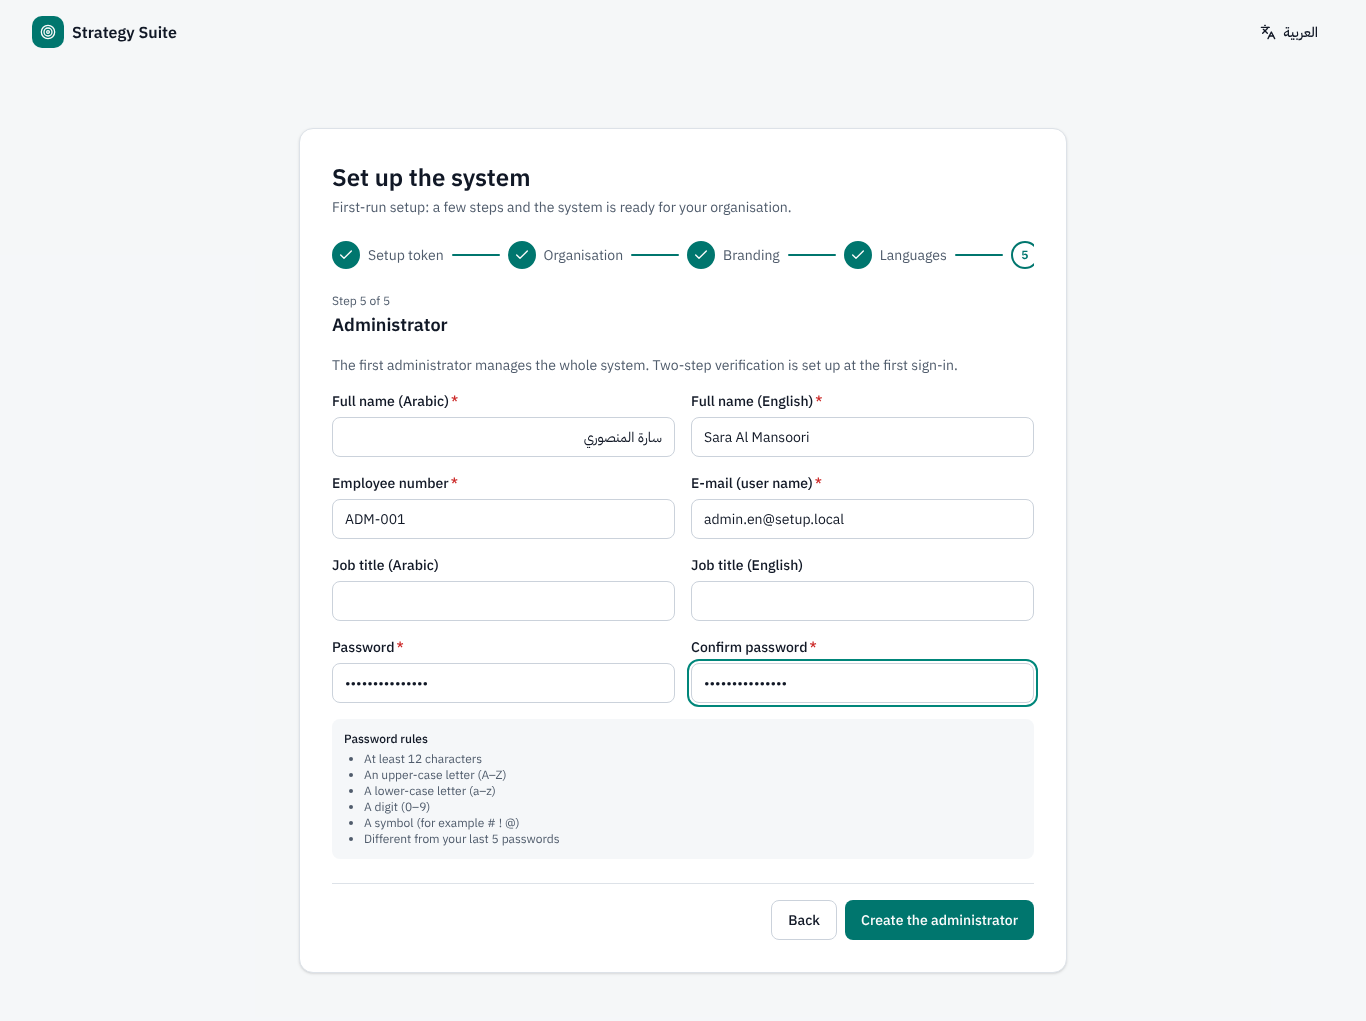
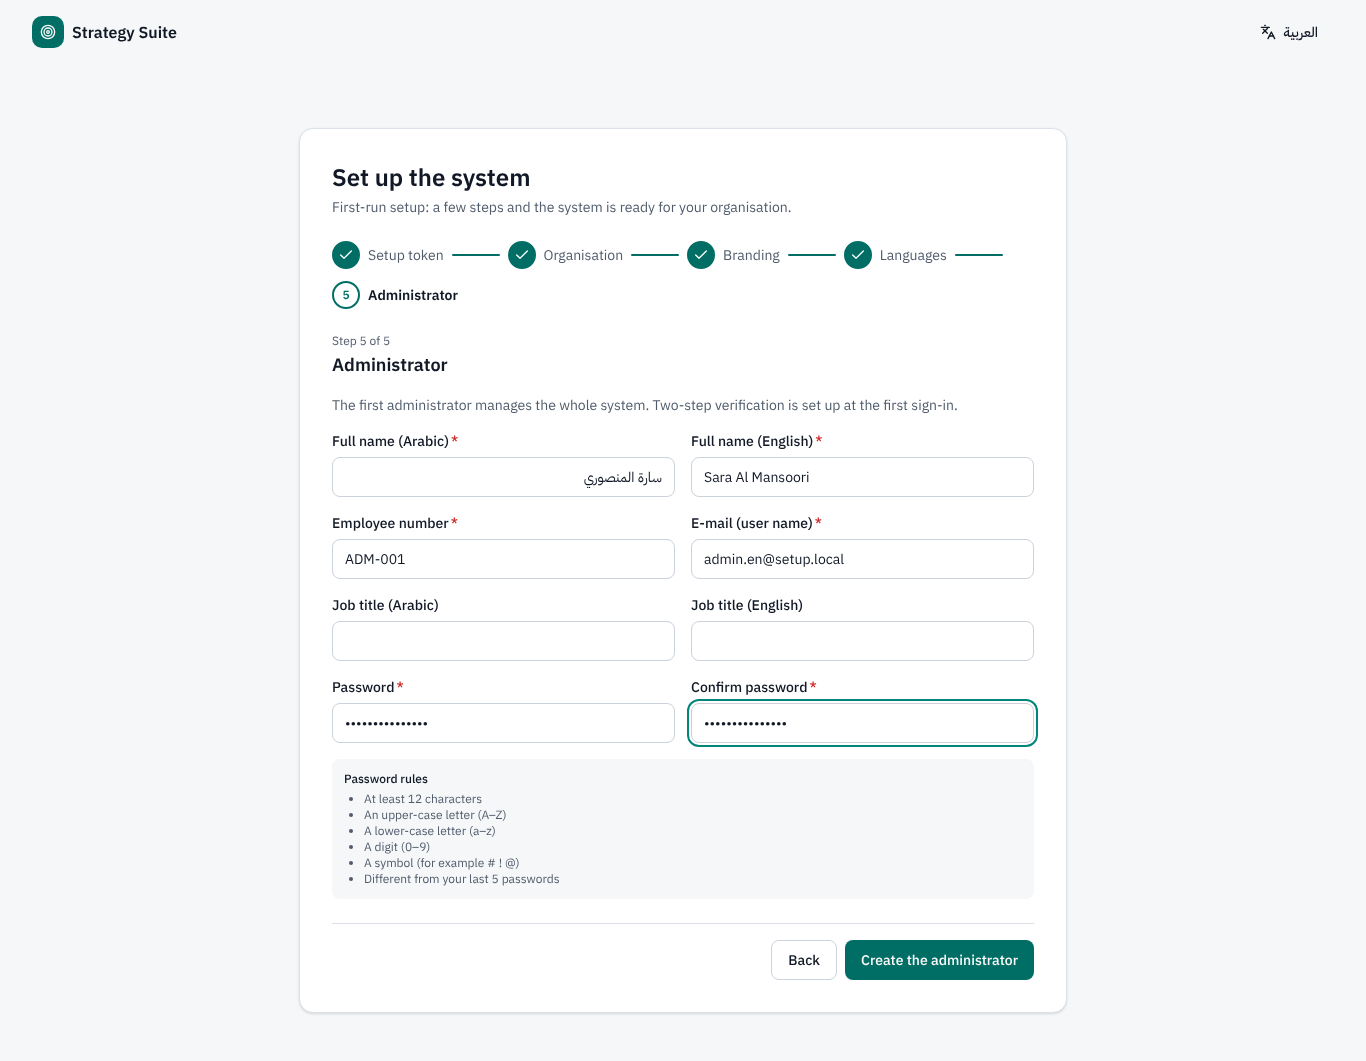
fix(web): date picker name starts with its placeholder, underlined links in the Wasel tab; refreshed setup screenshots; audit report
Claude-Session: https://claude.ai/code/session_01WuX2zNRAkdvQESGAUbiEi1

diff --git a/web/src/ui/date-picker.tsx b/web/src/ui/date-picker.tsx
@@ -41,6 +41,10 @@ export function DatePicker({ value, onChange, id, placeholder, disabled, ...aria
         id={id}
         disabled={disabled}
         {...aria}
+        // Empty: "Pick a date, Open calendar" — the visible placeholder starts the name (WCAG 2.5.3); chosen: the field label / date.
+        aria-label={
+          selected ? undefined : `${placeholder ?? t('datePicker.placeholder')}, ${t('datePicker.open')}`
+        }
         className={cn(
           'flex h-10 w-full items-center justify-between gap-2 rounded-md border border-input bg-card px-3 text-sm aria-invalid:border-danger disabled:opacity-50',
           !selected && 'text-muted-foreground',
@@ -48,8 +52,6 @@ export function DatePicker({ value, onChange, id, placeholder, disabled, ...aria
       >
         <span>
           {selected ? formatDate(selected, i18n.language) : (placeholder ?? t('datePicker.placeholder'))}
-          {/* The visible text stays part of the accessible name (WCAG 2.5.3); the action is added for screen readers. */}
-          <span className="sr-only"> — {t('datePicker.open')}</span>
         </span>
         <CalendarDays className="size-4 opacity-60" aria-hidden />
       </PopoverPrimitive.Trigger>

diff --git a/web/src/features/portfolio/wasel/WaselTab.tsx b/web/src/features/portfolio/wasel/WaselTab.tsx
@@ -213,7 +213,7 @@ function AssignmentsSection({ project, panel }: { project: ProjectFull; panel: W
                 <Link
                   to="/portfolio/vendors/$vendorId"
                   params={{ vendorId: a.vendorId }}
-                  className="font-medium text-primary hover:underline"
+                  className="font-medium text-primary underline underline-offset-2"
                 >
                   {a.vendorNumber} · {pickText(lang, a.vendorNameAr, a.vendorNameEn)}
                 </Link>
@@ -1108,7 +1108,11 @@ export function EvidenceLinks({ files }: { files: { id: string; name: string; sc
     <ul className="flex flex-col gap-1">
       {files.map((f) => (
         <li key={f.id}>
-          <a className="text-primary hover:underline" href={contentUrl(f.id, undefined, true)} dir="auto">
+          <a
+            className="text-primary underline underline-offset-2"
+            href={contentUrl(f.id, undefined, true)}
+            dir="auto"
+          >
             {f.name}
           </a>
           {f.scanStatus !== 'clean' && f.scanStatus !== 'not-scanned' && (

diff --git a/docs/accessibility.md b/docs/accessibility.md
@@ -53,6 +53,7 @@ complete E2E suite with record pages); **after: 0 for every rule**.
 | `aria-required-parent` / `aria-required-children` (1.3.1) | 116 on 16 states | Risk matrix cells (`gridcell`) without rows; heat grid with no columns rendered an empty row; view switches marked as `tablist` containing plain buttons | Read-only risk matrix as rows with row / column headers, editable one stays a radio group (`features/risk/components.tsx`); empty heat grid says "No data to show." instead of an empty grid (`ui/dashboard/HeatGrid.tsx`); audit findings views and calendar ranges are a group of pressed buttons |
 | `aria-valid-attr-value` (4.1.2) | 10 on 10 states | Tabs used as list filters pointed `aria-controls` at panels that do not exist | `TabsTrigger filter` drops `aria-controls` (`ui/tabs.tsx`; Tasks, Teams, KPI pending, program requests) |
 | `scrollable-region-focusable` (2.1.1) | 12 on 8 states | Overflowing boxes (health check tables, audit log, setup stepper) not reachable by keyboard | New `ScrollRegion` (`ui/scroll-region.tsx`): while its content overflows it is a named, focusable region (arrow keys scroll it); used by every `Table` and the health page; the stepper now wraps instead of scrolling |
+| `link-in-text-block` (1.4.1) | 2 on 2 states | Links in the Wasel tab's member / file lists told apart from the text by colour only (2.89 : 1) | Underlined (`portfolio/wasel/WaselTab.tsx`) |
 | `nested-interactive` (4.1.2) | 6 on 5 states | The Gantt `svg` had `role="img"` but contains focusable row buttons | Gantt `svg` is a named `group` (`ui/gantt/Gantt.tsx`, unit tests updated) |
 
 Other defects found by the scripted checks:
